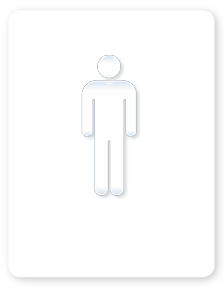
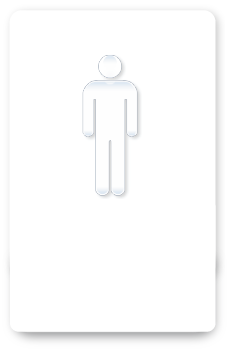
test

Changed region(s): [[0.3438, 0.1557, 0.625, 0.6851], [0.0625, 0.0623, 0.9688, 0.9654]]

diff --git a/media/style.css b/media/style.css
@@ -126,7 +126,7 @@ src: url(/static_media/fonts/MyriadWebPro.ttf); /* make sure this path is set to
 .seleccionadoAbajo{
    height: 25px;
     margin-left: 30px;
-    margin-top: 267px;
+    margin-top: 320px;
     text-align: center;
 }
 .unaImagen{	
@@ -152,7 +152,7 @@ color: #6D6E71;
     margin-left: 21px;
     margin-top: 54px;
     text-align: center;
-    width: 248px;
+    width: 240px;
 }
 
 #choices img {
@@ -162,18 +162,17 @@ color: #6D6E71;
 }
 #choices .resp {
 	
-font-family: Myriad Pro;
-    font-size: 13px;
+   font-family: Myriad Pro;
+    font-size: 18px;
     font-weight: normal;
     height: 68px;
     left: 16px;
     position: absolute;
     right: 30px;
-    top: 226px;
+    top: 236px;
     white-space: pre-wrap;
-    width: 180px;
+    width: 189px;
     z-index: 99;
-
 }
 
 #choices .pregFila {
@@ -217,14 +216,13 @@ font-family: Myriad Pro;
 	background-image:url('/static_media/img/fondo.png');
 	background-repeat: no-repeat;
 	width: 224px;
-	height: 289px;
+	height: 351px;
 	z-index:2;
 	
 }
 
 #choices .persona2 {
 	position:absolute;
-	background-image:url('/static_media/img/fondo2.png');
 	background-repeat: no-repeat;
 	width: 224px;
 	height: 289px;
